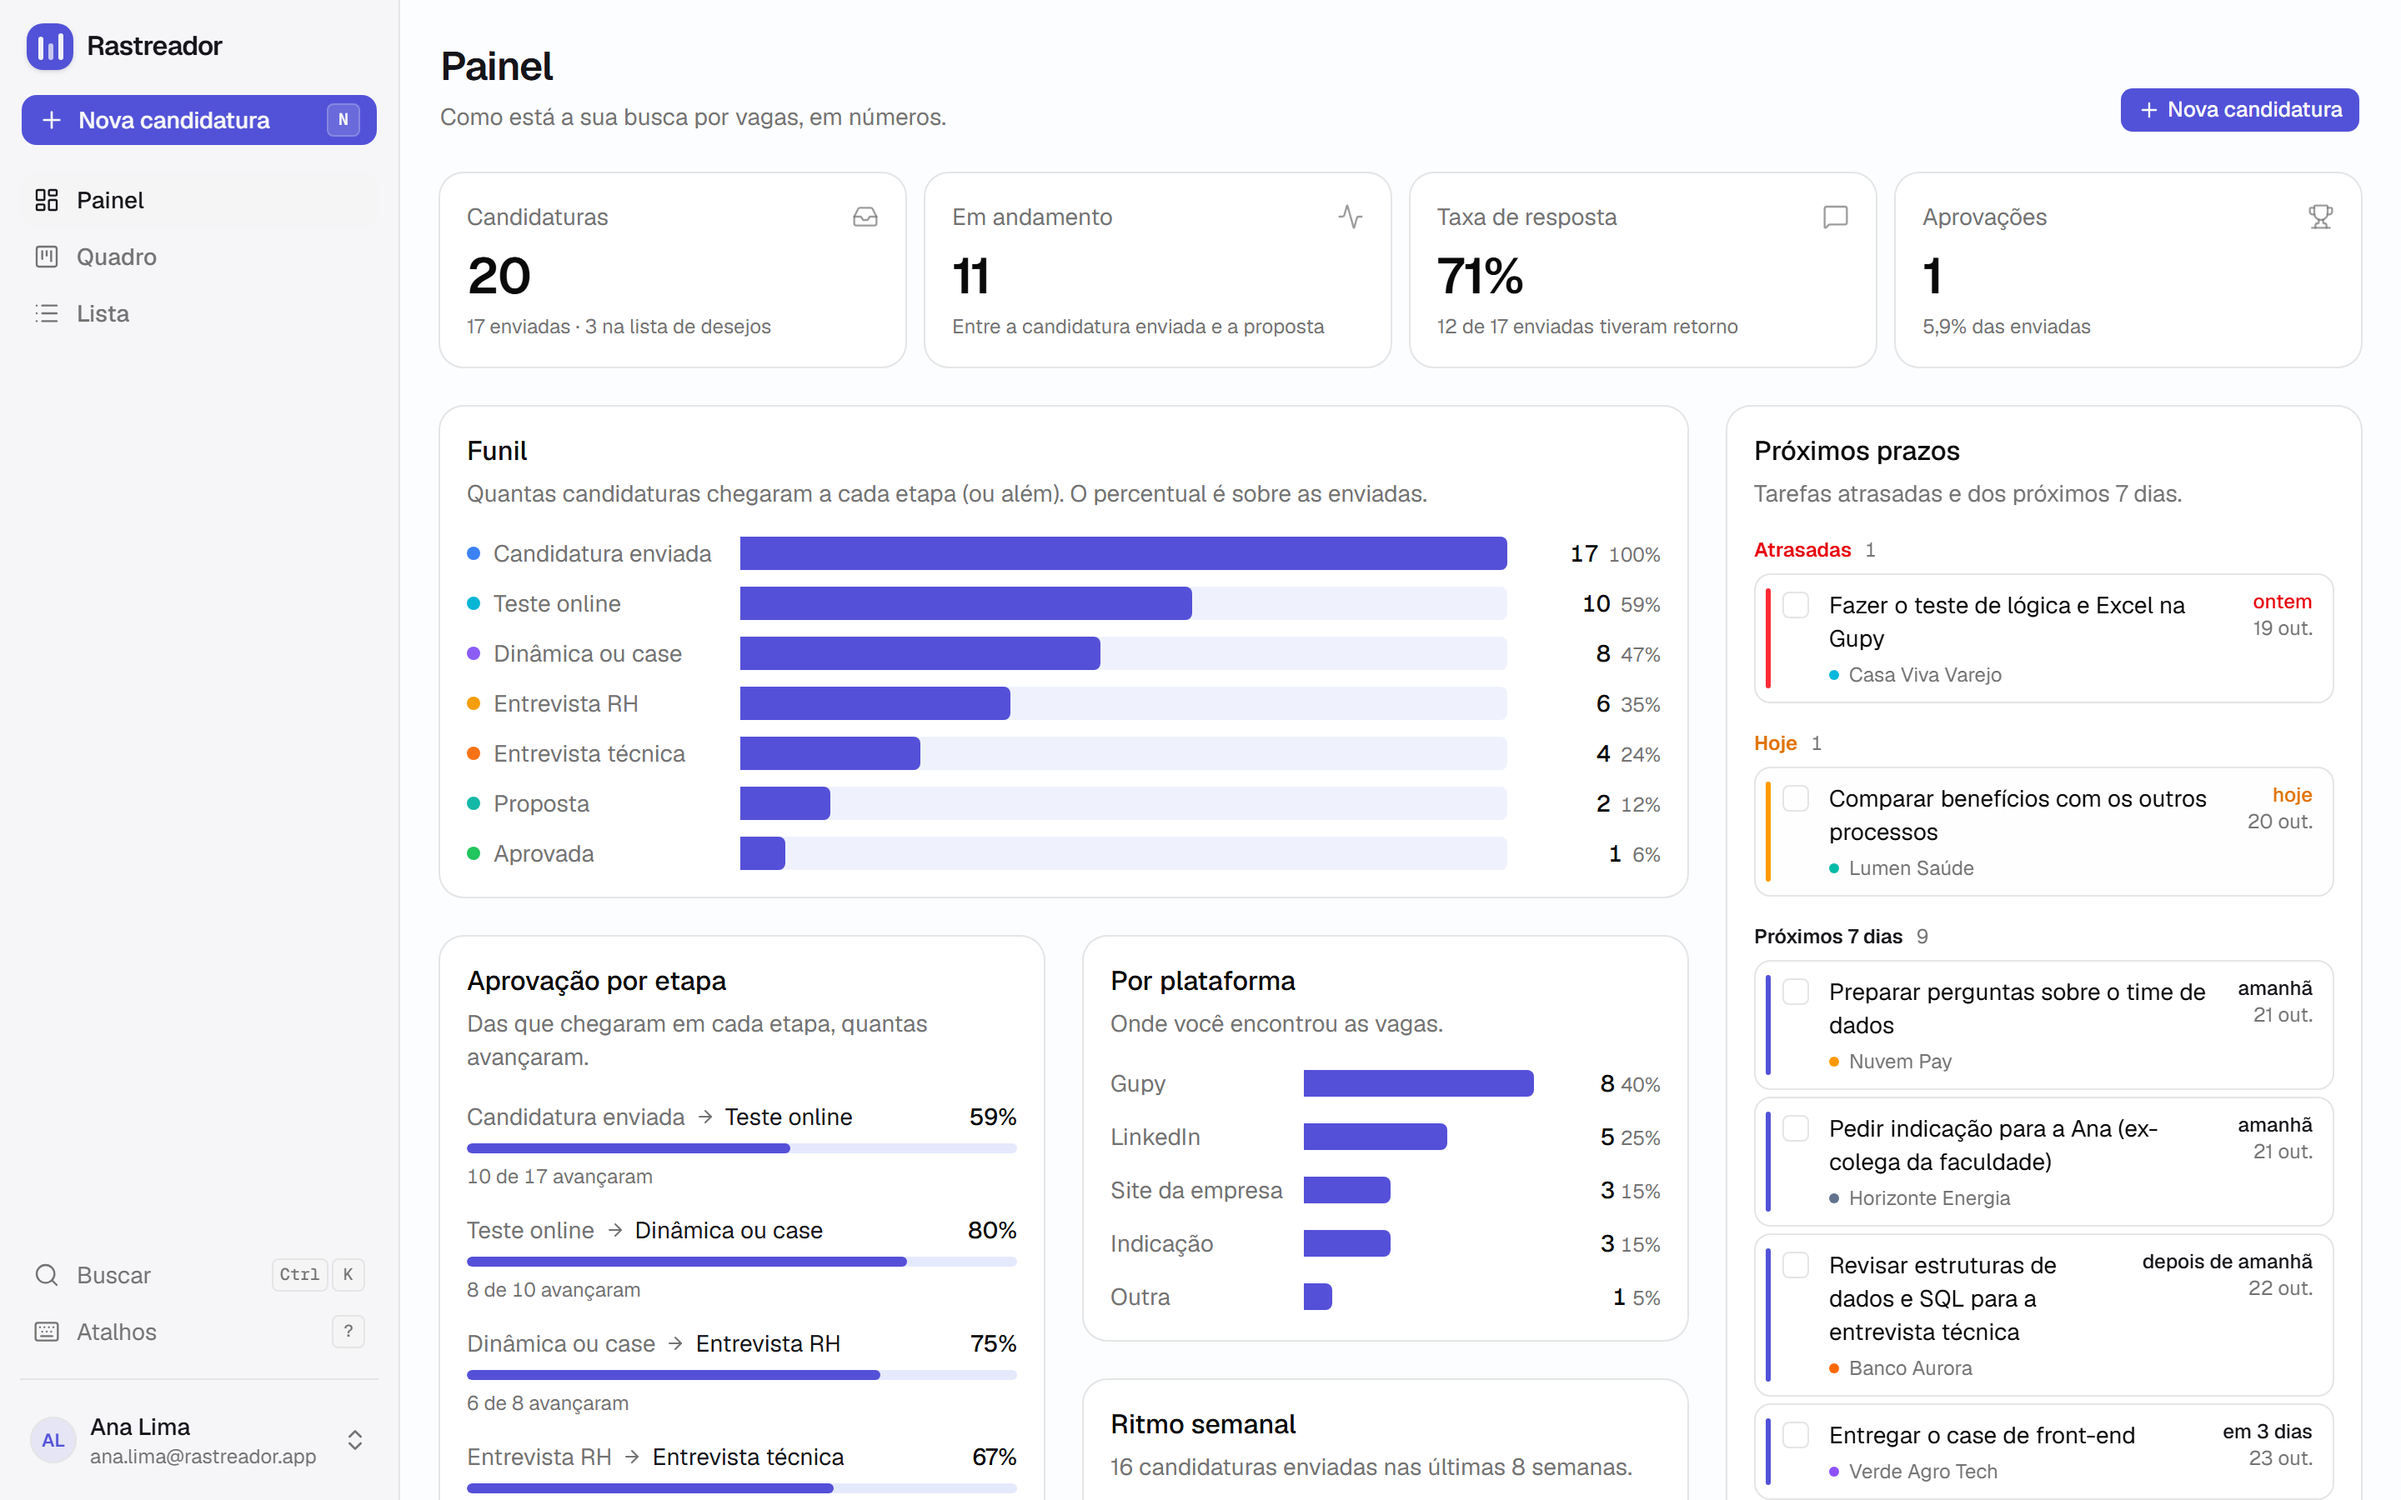
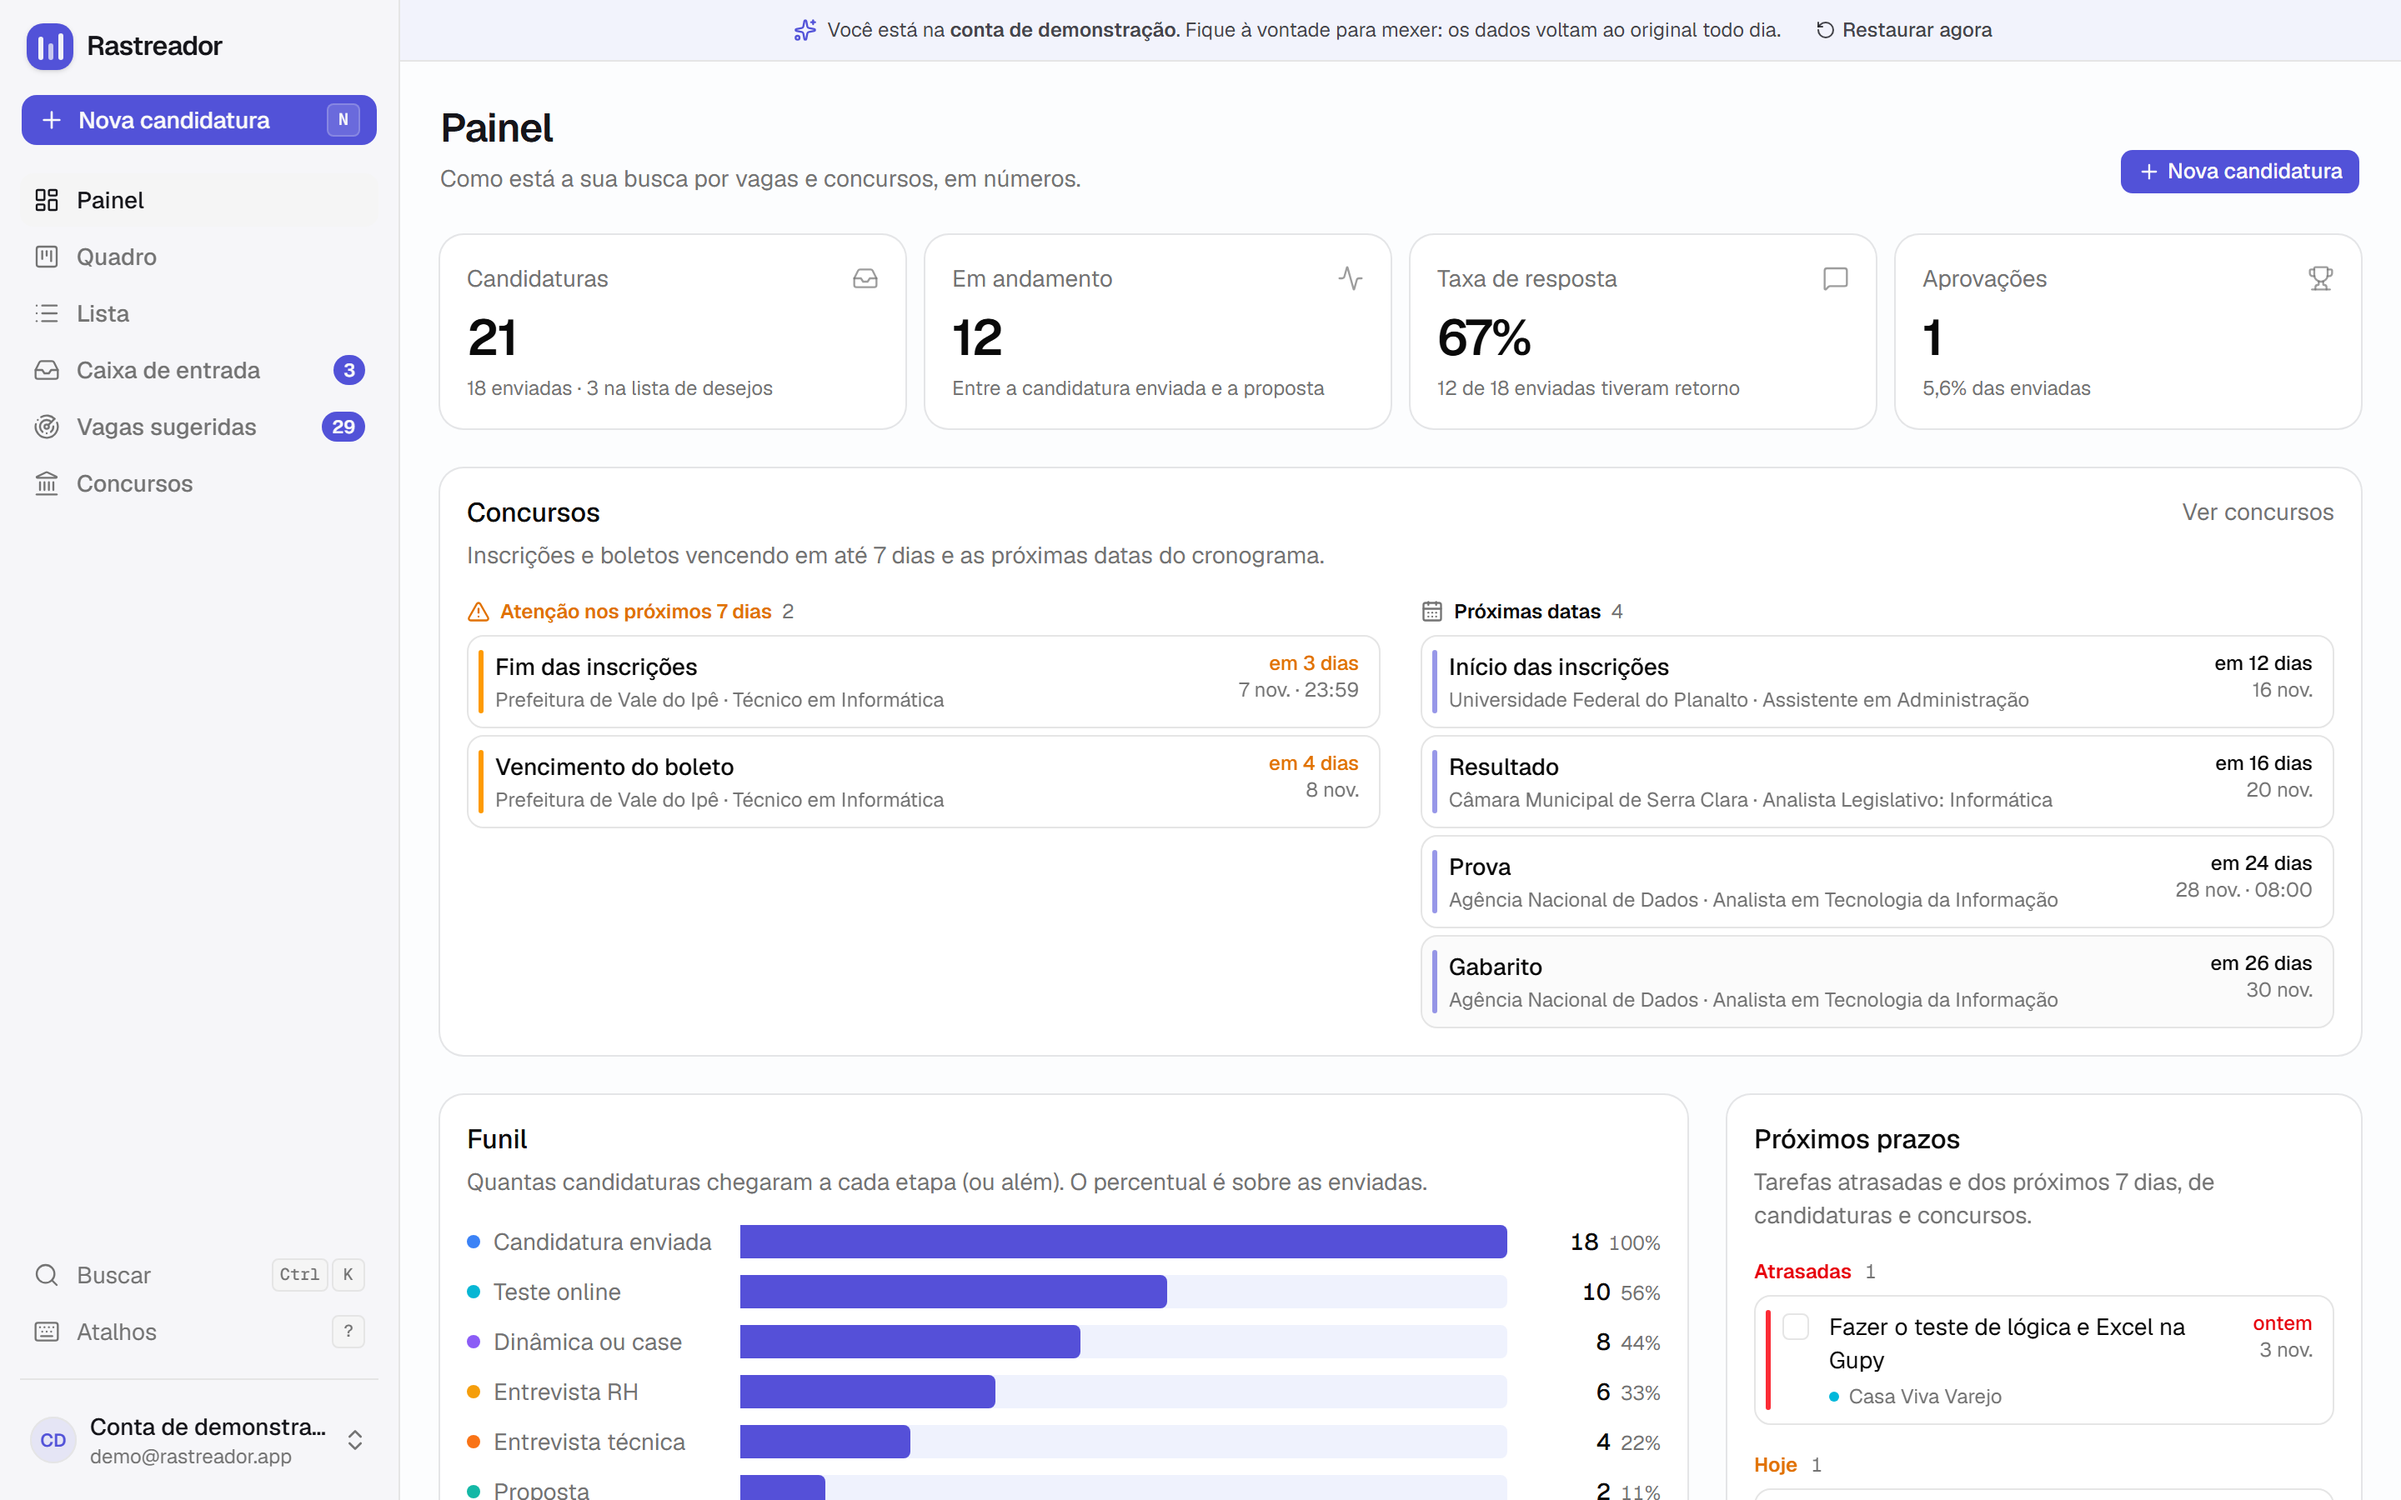
README: prints de concursos, destaques técnicos e índice
Prints novos em modo claro (quadro e detalhe de concursos, sugeridos e
"Ler edital") e o painel atualizado, com a agenda dos concursos.

diff --git a/README.md b/README.md
@@ -10,7 +10,31 @@ contagem até a prova, matérias, leitor de edital e busca diária de editais ab
 
 > **Demonstração:** [rastreador-de-candidaturas.vercel.app](https://rastreador-de-candidaturas.vercel.app). Clique em **Explorar a demonstração**: a conta já vem com dados de exemplo, e eles voltam ao original todo dia.
 
+## Destaques técnicos
+
+- **Histórico por trigger no PostgreSQL:** toda mudança de etapa entra na linha do tempo pelo próprio banco, venha do Kanban, do formulário ou de outro cliente.
+- **RLS em todas as tabelas:** cada pessoa só lê e altera as próprias linhas, mesmo chamando o Supabase direto pelo navegador.
+- **Caça-vagas e caça-concursos com nota de compatibilidade:** busca diária em fontes públicas, nota de 0 a 100 com os motivos na tela, por regras e sem IA.
+- **Leitor de edital com proteção contra SSRF:** o link é baixado no servidor, com o IP conferido na hora de conectar, sem endereços internos e com limite de tamanho, tempo e redirecionamentos.
+- **Testes no CI:** lint, testes e build a cada push e pull request.
+
 ![Painel](docs/prints/painel.png)
+
+## Índice
+
+- [Objetivo](#objetivo)
+- [Funcionalidades](#funcionalidades)
+- [Tecnologias](#tecnologias)
+- [Como funciona por dentro](#como-funciona-por-dentro)
+- [Configurar o Supabase](#configurar-o-supabase)
+- [Automação gratuita](#automação-gratuita)
+- [Caça-vagas](#caça-vagas)
+- [Currículo](#currículo)
+- [Concursos públicos](#concursos-públicos)
+- [Rodar localmente](#rodar-localmente)
+- [Deploy na Vercel](#deploy-na-vercel)
+- [Decisões e próximos passos](#decisões-e-próximos-passos)
+- [Licença](#licença)
 
 ## Objetivo
 
@@ -73,8 +97,12 @@ back-end, banco relacional com regras de segurança por usuário, login, testes 
 | ![Lista com filtros](docs/prints/lista.png) | ![Quadro no modo escuro](docs/prints/quadro-escuro.png) |
 | **Caixa de entrada** | **Celular** |
 | ![Caixa de entrada com sugestões](docs/prints/caixa-de-entrada.png) | <img src="docs/prints/celular.png" alt="Versão para celular" width="260"> |
-| **Vagas sugeridas** | |
-| ![Vagas sugeridas com nota de compatibilidade](docs/prints/vagas.png) | |
+| **Vagas sugeridas** | **Quadro de concursos** |
+| ![Vagas sugeridas com nota de compatibilidade](docs/prints/vagas.png) | ![Quadro de concursos por etapa](docs/prints/concursos-quadro.png) |
+| **Detalhe do concurso** | **Concursos sugeridos** |
+| ![Concurso com contagem até a prova, cronograma e matérias](docs/prints/concurso-detalhe.png) | ![Concursos sugeridos com nota e motivos](docs/prints/concursos-sugeridos.png) |
+| **Ler edital** | |
+| ![Leitor de edital com o que foi encontrado no texto](docs/prints/ler-edital.png) | |
 
 ## Tecnologias
 
